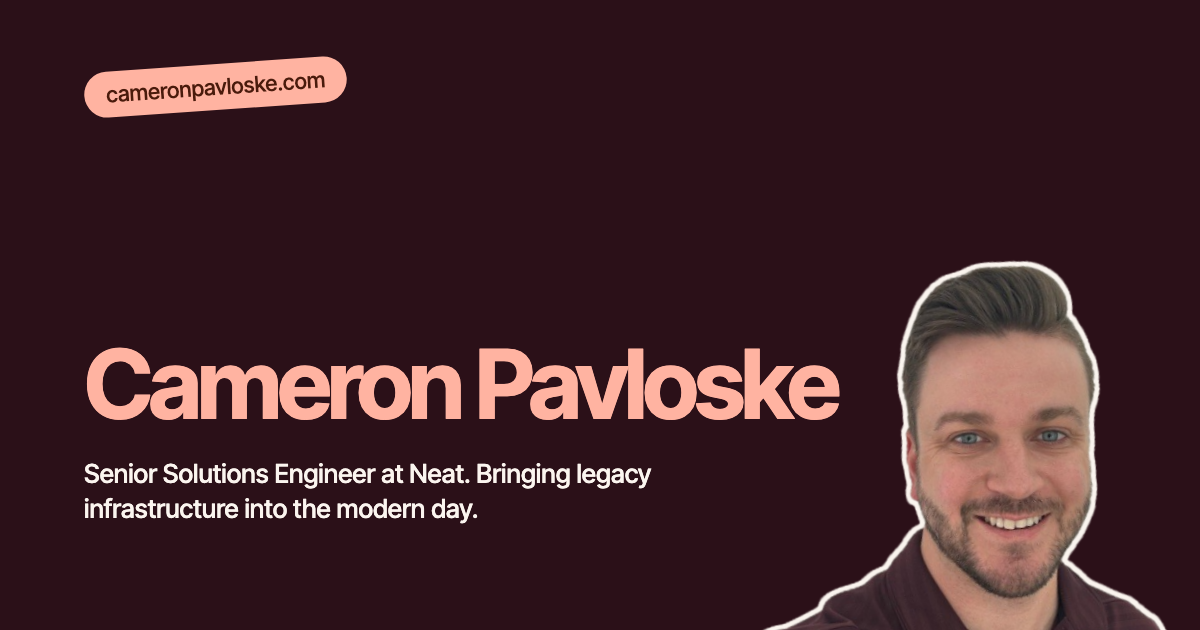
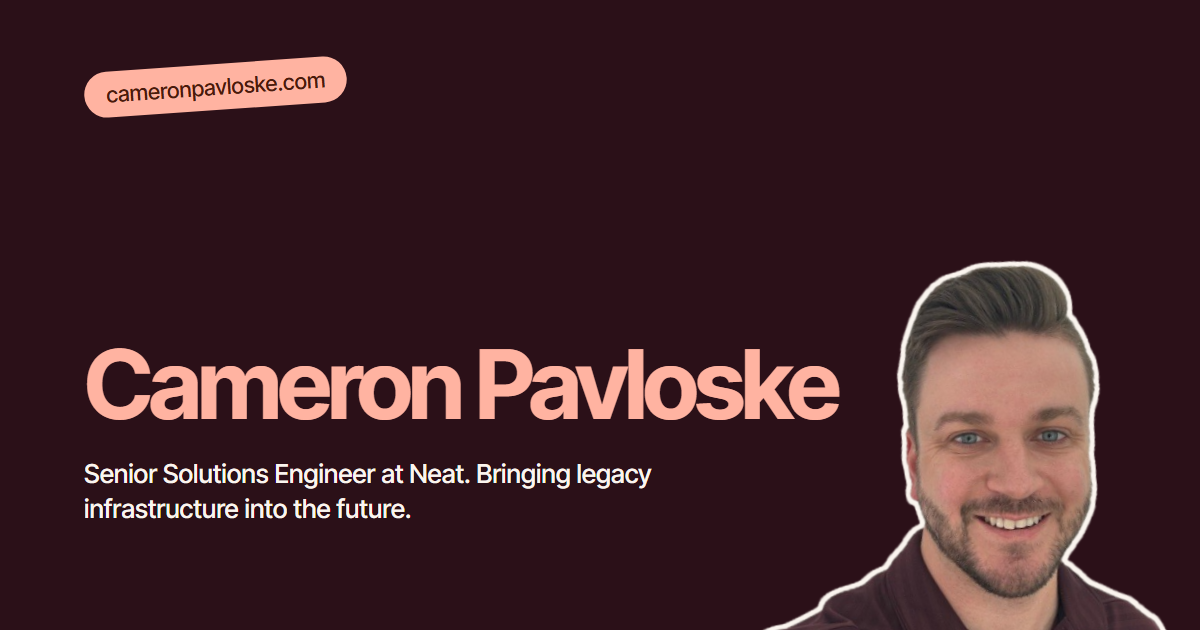
Reframe site copy around staying ahead instead of modernizing
Rewrite the About section, hero tagline, meta descriptions, Currently
fact, and contact line to be forward-looking, and regenerate the
og-image with the new tagline.

diff --git a/index.html b/index.html
@@ -4,10 +4,10 @@
   <meta charset="UTF-8">
   <meta name="viewport" content="width=device-width, initial-scale=1.0">
   <title>Cameron Pavloske</title>
-  <meta name="description" content="Cameron Pavloske — Senior Solutions Engineer at Neat, modernizing enterprise collaboration and AV infrastructure.">
+  <meta name="description" content="Cameron Pavloske — Senior Solutions Engineer at Neat, keeping enterprise collaboration and AV infrastructure a step ahead.">
   <meta property="og:type" content="website">
   <meta property="og:title" content="Cameron Pavloske">
-  <meta property="og:description" content="Senior Solutions Engineer at Neat, modernizing enterprise collaboration and AV infrastructure.">
+  <meta property="og:description" content="Senior Solutions Engineer at Neat, keeping enterprise collaboration and AV infrastructure a step ahead.">
   <meta property="og:url" content="https://cameronpavloske.com">
   <meta property="og:image" content="https://cameronpavloske.com/og-image.png">
   <meta name="twitter:card" content="summary_large_image">
@@ -58,7 +58,7 @@
     <h1 class="hero-name" id="hero-name">Cameron<span class="sp"> </span>Pavloske</h1>
 
     <p class="hero-sub" data-reveal style="--d:.9s">
-      Bringing legacy infrastructure into the modern day.
+      Bringing legacy infrastructure into the future.
       <span class="role">Senior Solutions Engineer at Neat · Dallas, TX</span>
     </p>
 
@@ -95,15 +95,15 @@
       <div class="about-copy">
         <div class="who" data-reveal>Cameron Pavloske</div>
         <div class="txt">
-          <p data-reveal>I'm an engineer and proud Aggie with an Electrical Engineering degree from Texas A&amp;M, with a background that spans enterprise AV, camera and sensor systems, and IT architecture. I spent years as a Principal Architect, designing and deploying collaboration and camera systems at scale across one of the world's largest enterprises, including using camera streams not just for physical security but for AI-driven operational use cases. I know what it looks like to inherit a fragmented environment and have to make it work, because I lived it.</p>
-          <p data-reveal style="--d:.1s">Now I help organizations take those same kinds of systems and bring them into the modern day. As technology rapidly evolves, my job is to help teams leave outdated solutions behind and move toward modern, forward-thinking ones that fit seamlessly into their broader IT architecture and the collaboration tools they actually rely on.</p>
+          <p data-reveal>I'm an electrical engineer and proud Aggie, with a degree from Texas A&amp;M and a career spanning enterprise AV, camera and sensor systems, and IT architecture. As a Principal Architect at one of the world's largest enterprises, I spent years designing and deploying collaboration and camera systems at scale, including putting camera streams to work beyond physical security to power AI-driven operational use cases. I know what it's like to inherit a fragmented environment and be expected to make it work, because I've done it.</p>
+          <p data-reveal style="--d:.1s">Today, I help organizations carry those same systems forward. Technology moves fast, and yesterday's solutions get left behind. My job is to help teams get ahead of that curve, choosing forward-looking platforms built for what's next that fit cleanly into their broader IT architecture and the collaboration tools their people actually rely on.</p>
           <a class="btn" data-reveal style="--d:.2s" href="https://www.linkedin.com/in/cameron-pavloske/" target="_blank" rel="noopener noreferrer">Read more on LinkedIn</a>
         </div>
       </div>
 
       <ul class="facts">
         <li data-reveal><b>Expertise</b><span>Enterprise AV, collaboration systems, camera &amp; sensor systems, IT architecture, AI-driven operational use cases</span></li>
-        <li data-reveal style="--d:.08s"><b>Currently</b><span>Senior Solutions Engineer at Neat, helping organizations modernize collaboration infrastructure</span></li>
+        <li data-reveal style="--d:.08s"><b>Currently</b><span>Senior Solutions Engineer at Neat, helping organizations stay ahead in collaboration and AV</span></li>
         <li data-reveal style="--d:.16s"><b>Off the clock</b><span>Keeping up with AI, music production, reading, Texas A&amp;M sports</span></li>
       </ul>
     </div>
@@ -165,7 +165,7 @@
   <!-- Contact -->
   <section id="contact" class="contact" data-bg="maroon" data-pin>
     <h2 class="words">Say <em>hello</em></h2>
-    <p data-reveal>Want to talk IT modernization, IoT, or anything at the intersection of AV, cameras, and AI? Drop me a line.</p>
+    <p data-reveal>Want to talk about where IT and IoT are headed, or anything at the intersection of AV, cameras, and AI? Drop me a line.</p>
     <a class="btn" data-reveal style="--d:.1s" href="mailto:cpavloske@gmail.com">cpavloske@gmail.com</a>
     <div class="socials" data-reveal style="--d:.2s">
       <a href="https://github.com/cpavloske" target="_blank" rel="noopener noreferrer" aria-label="GitHub">

diff --git a/og-image.html b/og-image.html
@@ -43,7 +43,7 @@
 <body>
   <div class="kicker" id="kicker">cameronpavloske.com</div>
   <h1 id="title">Cameron Pavloske</h1>
-  <p class="sub" id="sub">Senior Solutions Engineer at Neat. Bringing legacy infrastructure into the modern day.</p>
+  <p class="sub" id="sub">Senior Solutions Engineer at Neat. Bringing legacy infrastructure into the future.</p>
   <p class="name" id="name"></p>
   <div class="head"><img src="img/cameron-cutout.png" alt=""></div>
   <script>
